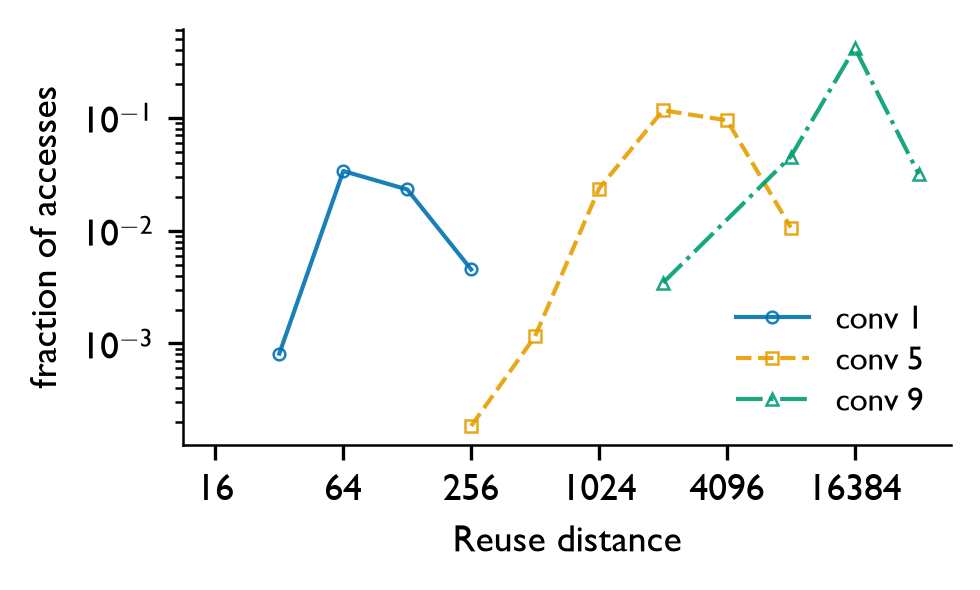
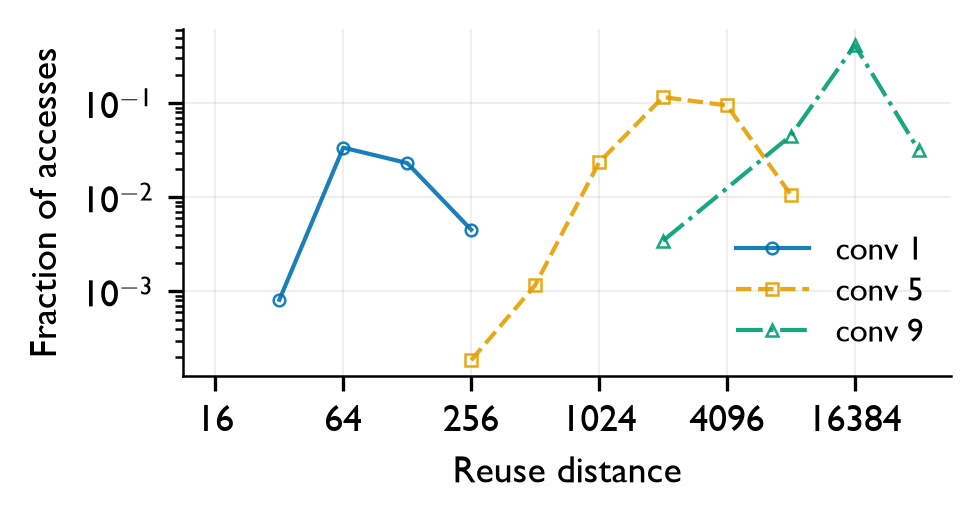
fig5 grid/compact/Fraction; roofline 14pt fonts, 4-col legend, wrapped roof label

diff --git a/zoo/roofline/fig_roofline_cacheA.py b/zoo/roofline/fig_roofline_cacheA.py
@@ -44,10 +44,10 @@ def main() -> None:
     installed = {f.name for f in fm.fontManager.ttflist}
     family = next((w for w in wanted if w in installed), "DejaVu Sans")
     plt.rcParams.update({
-        "font.family": family, "font.size": 12,
+        "font.family": family, "font.size": 14,
         "mathtext.fontset": "custom", "mathtext.rm": family,
         "mathtext.it": family, "mathtext.bf": family,
-        "xtick.labelsize": 10, "ytick.labelsize": 10, "axes.linewidth": 1.0,
+        "xtick.labelsize": 12, "ytick.labelsize": 12, "axes.linewidth": 1.0,
         "axes.unicode_minus": False,
     })
 
@@ -91,11 +91,12 @@ def main() -> None:
         if i:
             ax.annotate(", ".join(names), xy=(x_max, roof), xytext=(-2, 3),
                         textcoords="offset points", ha="right", va="bottom",
-                        fontsize=9, color="0.35")
+                        fontsize=11, color="0.35")
         else:
-            ax.annotate(", ".join(names), xy=(max(ridge, x_min), roof),
+            label = ", ".join(names[:-1]) + ",\n" + names[-1] if len(names) > 2 else ", ".join(names)
+            ax.annotate(label, xy=(max(ridge, x_min), roof),
                         xytext=(4, -4), textcoords="offset points",
-                        ha="left", va="top", fontsize=9, color="0.35")
+                        ha="left", va="top", fontsize=11, color="0.35")
 
     by_pair = {}
     for p in points:
@@ -136,9 +137,9 @@ def main() -> None:
                 arrowprops=dict(arrowstyle="-|>", color="0.45", lw=0.9,
                                 shrinkA=5, shrinkB=5.5, mutation_scale=8))
     ax.annotate("spad", xy=(ex_x, ex_y), xytext=(0, 7), textcoords="offset points",
-                ha="center", fontsize=9, color="0.2")
+                ha="center", fontsize=11, color="0.2")
     ax.annotate("cache A", xy=(ex_x * 3.2, ex_y), xytext=(0, 7), textcoords="offset points",
-                ha="center", fontsize=9, color="0.2")
+                ha="center", fontsize=11, color="0.2")
     ax.set_xlabel("Operational intensity (Ops / DRAM byte)")
     ax.set_ylabel("Performance (OPS)")
     ax.spines[["top", "right"]].set_visible(False)
@@ -151,7 +152,7 @@ def main() -> None:
                       label=short[w]) for w in KEEP_WORKLOADS]
     handles += [Line2D([0], [0], marker=ARCH_MARKERS[a], ls="none", ms=6,
                        color="#444444", label=a) for a in base.ARCHES]
-    ax.legend(handles=handles, fontsize=9, ncol=3, frameon=False,
+    ax.legend(handles=handles, fontsize=11, ncol=4, frameon=False,
               loc="lower center", bbox_to_anchor=(0.5, 1.01),
               handletextpad=0.3, columnspacing=0.7, borderaxespad=0.0)
 

diff --git a/zoo/cache_dse/analysis/fig_reuse_pdf.py b/zoo/cache_dse/analysis/fig_reuse_pdf.py
@@ -77,7 +77,7 @@ for layer in layers:
 
 # --- figure: three representative layers across vgg16's depth (one per
 # depth third; Okabe-Ito colors + linestyle + marker per curve).
-fig, ax = plt.subplots(figsize=(3.3, 1.8))
+fig, ax = plt.subplots(figsize=(3.3, 1.5))
 # layer index -> (label, color, linestyle, marker)
 SHOW = {0: ("conv 1", "#0072B2", "-", "o"),
         4: ("conv 5", "#E69F00", "--", "s"),
@@ -110,9 +110,11 @@ ax.yaxis.set_major_formatter(FuncFormatter(
     lambda v, _: f"$10^{{{int(round(np.log10(v)))}}}$"))
 ax.yaxis.set_minor_formatter(NullFormatter())
 ax.set_xlabel("Reuse distance")
-ax.set_ylabel("fraction of accesses")
+ax.set_ylabel("Fraction of accesses")
 ax.legend(fontsize=8, frameon=False, handlelength=2.2, borderaxespad=0.4,
           labelspacing=0.3, loc="lower right")
+ax.grid(alpha=0.25, lw=0.4)
+ax.set_axisbelow(True)
 ax.spines[["top", "right"]].set_visible(False)
 
 fig.savefig(HERE / "fig_reuse_pdf.pdf", bbox_inches="tight")
